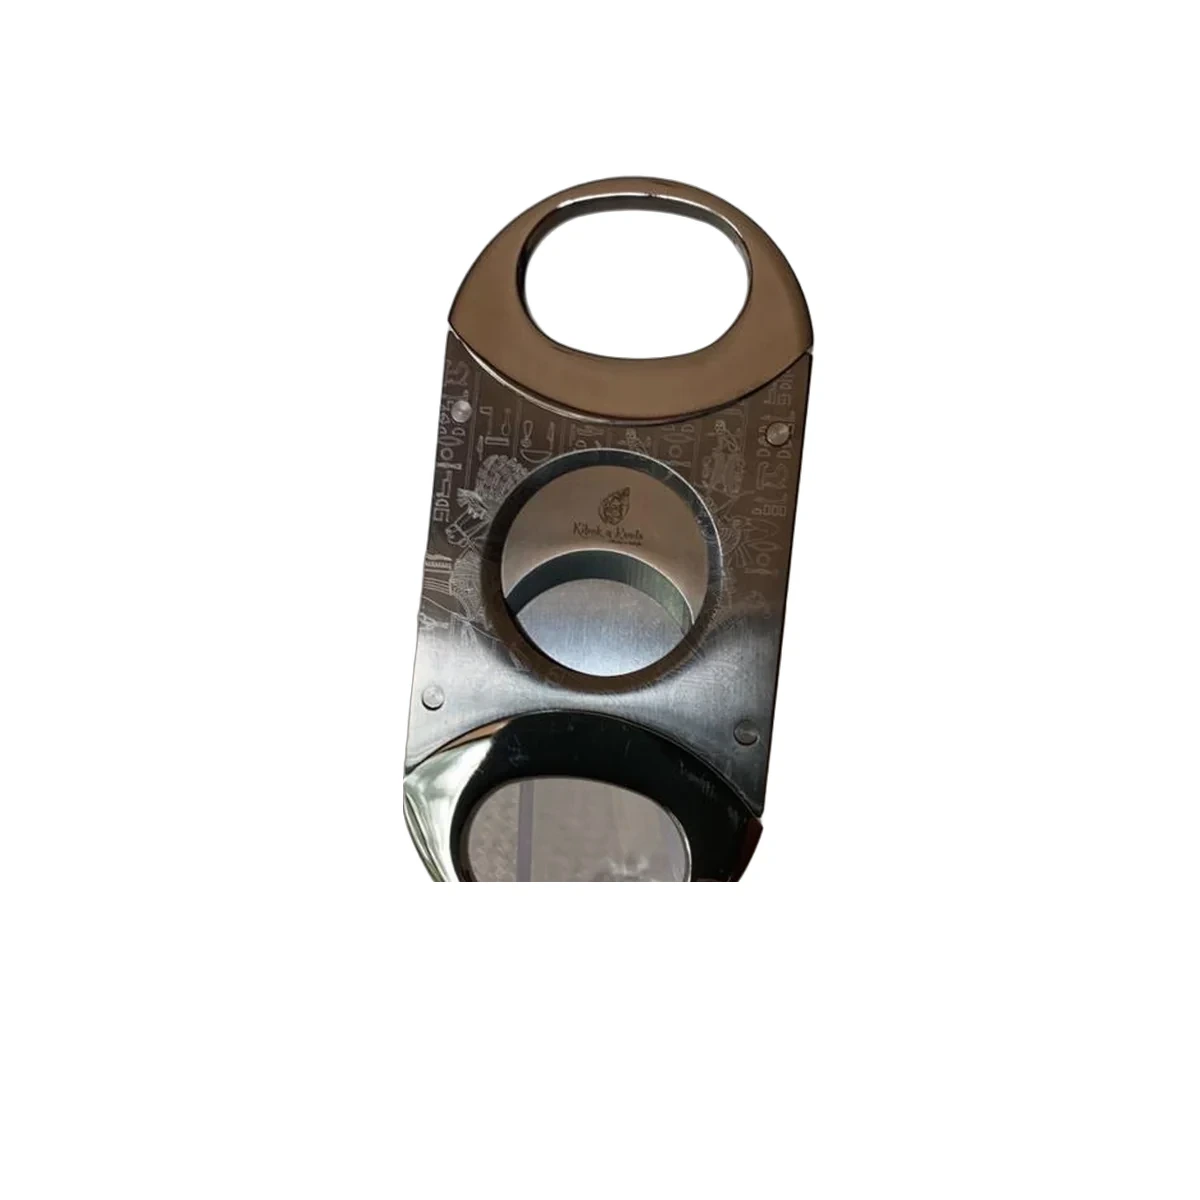
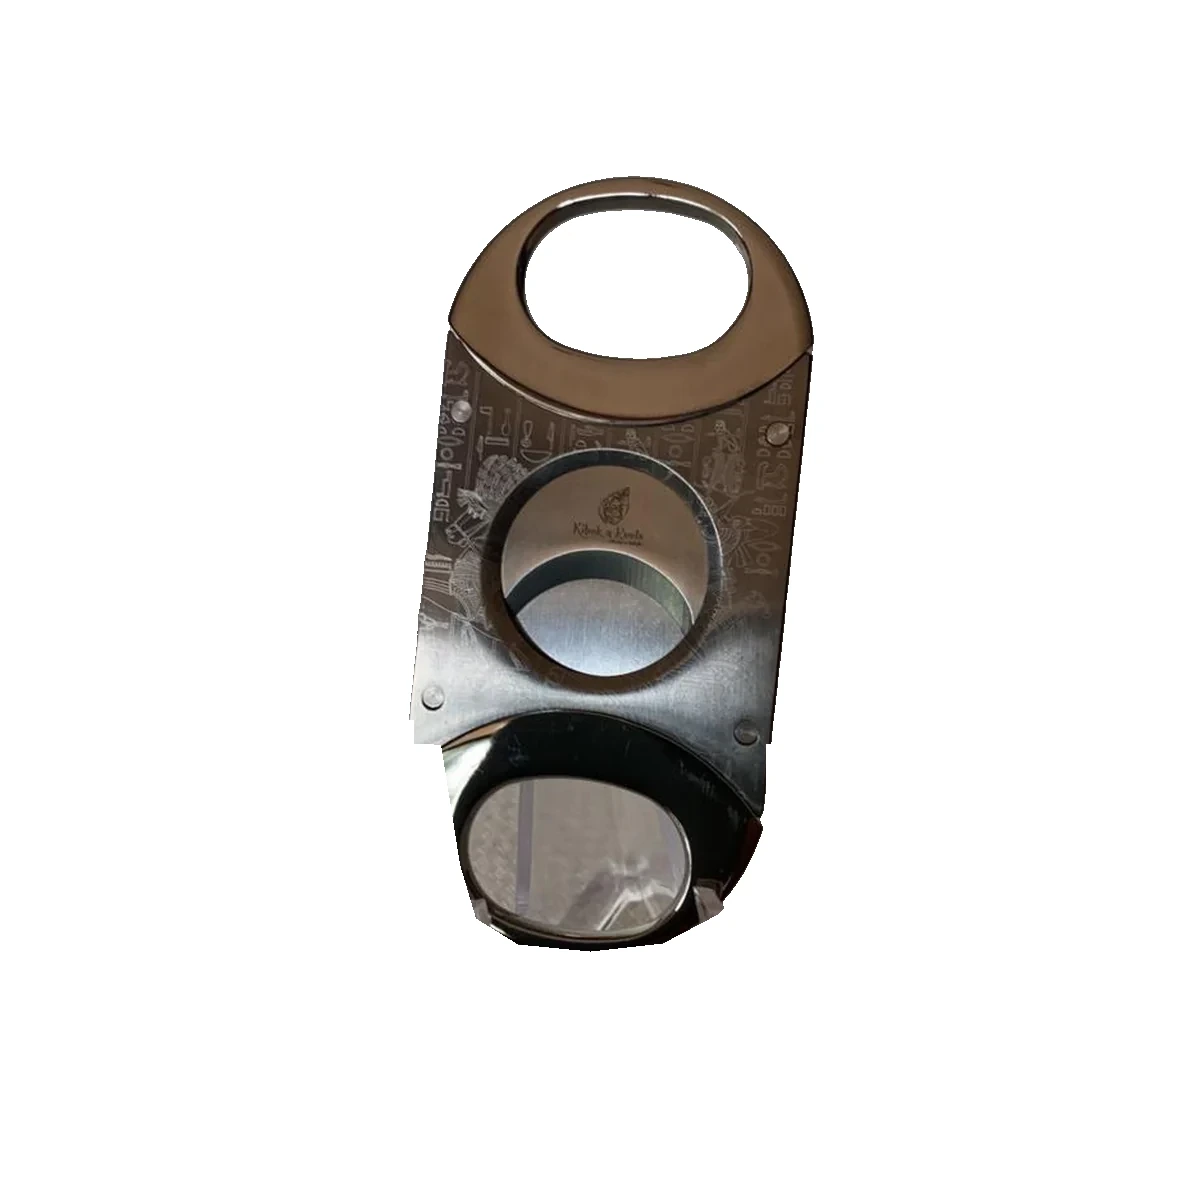
Fix hover blanking on single-image cards; clean jt-351-egypt cutout
- Cards with only one photo no longer fade to blank on hover; the
  principal image now fades out only when a second (alterna) image
  exists (new .tarjeta__img--doble flag in app.js + CSS).
- Reprocess jt-351-egypt with birefnet and remove the acrylic
  display stand following the blade-ring contour (no amputation,
  no leftover shadow/stand), regenerate -sm thumbnail.

Changed region(s): [[0.3083, 0.5858, 0.6167, 0.8017], [0.6167, 0.6167, 0.6475, 0.6475]]

diff --git a/SITIO KIBOK/js/app.js b/SITIO KIBOK/js/app.js
@@ -133,7 +133,7 @@
         (p.destacado ? '<span class="etiqueta etiqueta--oro">Destacado</span>' : '') +
         '<a class="tarjeta__link" href="producto.html?id=' + encodeURIComponent(p.id) + '">' +
           '<span class="sr">' + esc(p.nombre) + '</span></a>' +
-        '<div class="tarjeta__img">' +
+        '<div class="tarjeta__img' + (alterna ? ' tarjeta__img--doble' : '') + '">' +
           '<img class="principal" src="' + principal + '" alt="' + esc(p.nombre) + '" loading="lazy" width="600" height="600">' +
           (alterna ? '<img class="alterna" src="' + alterna + '" alt="" loading="lazy" width="600" height="600">' : '') +
         '</div>' +

diff --git a/SITIO KIBOK/css/styles.css b/SITIO KIBOK/css/styles.css
@@ -219,7 +219,7 @@ hr{border:0;border-top:1px solid var(--linea);margin:0}
   transition:transform .6s cubic-bezier(.2,.7,.3,1),opacity var(--trans)
 }
 .tarjeta__img img.alterna{position:absolute;inset:0;opacity:0}
-.tarjeta:hover .tarjeta__img img.principal{opacity:0}
+.tarjeta:hover .tarjeta__img--doble img.principal{opacity:0}
 .tarjeta:hover .tarjeta__img img.alterna{opacity:1}
 .tarjeta:hover .tarjeta__img img{transform:scale(1.05)}
 .tarjeta__cuerpo{padding:20px 24px 26px;display:flex;flex-direction:column;gap:6px;flex:1}
